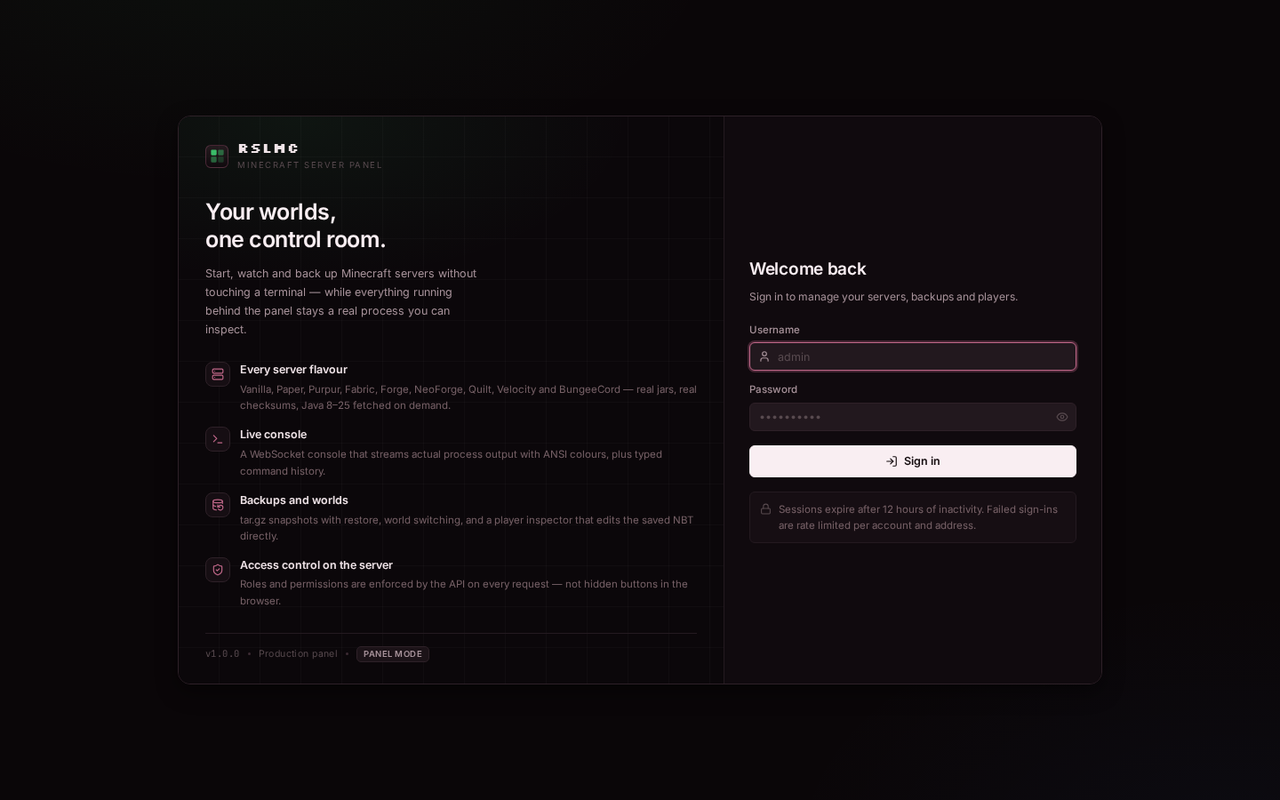
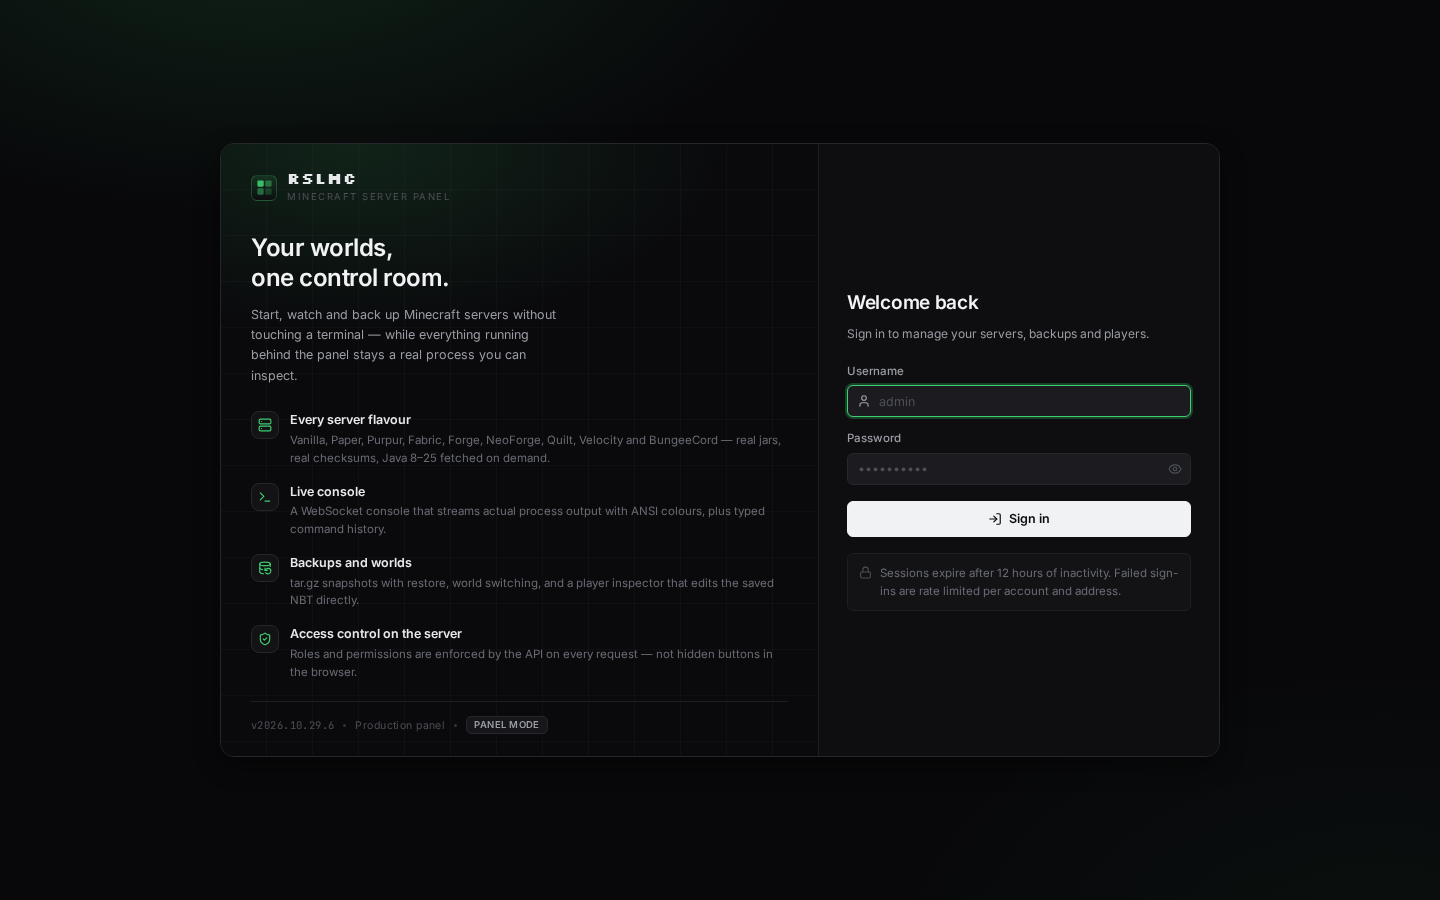
fix(auth): the sign-in frame now fits the screen it is opened on
On a 1366x768 laptop (683 px of viewport under browser chrome) the auth frame was a fixed 640 px
box with 32 px of padding above and below: it overflowed by 32 px at 1280x640 and 72 px at
1024x600, so the page scrolled and the form sat below the fold even though most of the frame's left
column was empty space.

- .auth-shell is border-box with dvh-aware padding (clamp 12-32 px), so the frame can use the whole
  viewport and never adds a phantom scrollbar on mobile.
- The frame is 1000 px wide with a narrower form column (348-400 px), and its internal spacing
  — hero padding, headline, intro, feature list, form gaps, footer rule — is expressed in clamp()
  against viewport height instead of fixed pixels.
- Feature descriptions clamp to two lines so the left column cannot grow past the right one.
- @media (max-height: 760px) drops the intro paragraph (the four capabilities carry the page) and
  tightens the list; @media (max-height: 560px) also trims the last feature and the card subtitle.

Measured in a real browser at 1366x683, 1280x640, 1024x600, 1920x950, 375x667 and 390x844: no
vertical scroll at any size, and the frame keeps its two-pane layout down to 921 px wide.
docs/screenshots/login.png regenerated at 1440x900.

diff --git a/frontend/styles.css b/frontend/styles.css
@@ -825,19 +825,23 @@ button, input, select, textarea { font-family: inherit; font-size: inherit; colo
    right. Same charcoal palette and motion language as the panel itself.
    ======================================================================== */
 .auth-shell {
+  /* dvh so a phone's collapsing toolbar does not add a phantom scrollbar; the padding is part of
+     the box, so the frame can use every pixel between the edges. */
   min-height: 100vh;
+  min-height: 100dvh;
   display: grid;
   place-items: center;
-  padding: 32px 24px;
+  box-sizing: border-box;
+  padding: clamp(12px, 2.8vh, 32px) clamp(12px, 2.2vw, 24px);
   background:
     radial-gradient(820px 420px at 18% -8%, var(--accent-soft), transparent 68%),
     radial-gradient(720px 420px at 96% 106%, color-mix(in srgb, var(--accent) 4%, transparent), transparent 70%),
     var(--bg);
 }
 .auth-frame {
-  width: min(1040px, 100%);
+  width: min(1000px, 100%);
   display: grid;
-  grid-template-columns: minmax(0, 1.06fr) minmax(392px, 424px);
+  grid-template-columns: minmax(0, 1fr) minmax(348px, 400px);
   background: var(--surface);
   border: 1px solid var(--border-2);
   border-radius: 14px;
@@ -851,7 +855,7 @@ button, input, select, textarea { font-family: inherit; font-size: inherit; colo
   position: relative;
   display: flex;
   flex-direction: column;
-  padding: 28px 30px 24px;
+  padding: clamp(16px, 3vh, 28px) clamp(18px, 2.4vw, 30px) clamp(14px, 2.4vh, 24px);
   border-right: 1px solid var(--border);
   background-color: var(--bg-sidebar);
   background-image:
@@ -883,23 +887,23 @@ button, input, select, textarea { font-family: inherit; font-size: inherit; colo
   color: var(--text-ghost);
   margin-top: 3px;
 }
-.auth-hero-body { margin-top: 30px; flex: 1; }
+.auth-hero-body { margin-top: clamp(14px, 3.2vh, 30px); flex: 1; }
 .auth-hero-body h2 {
   margin: 0;
-  font-size: 25px;
+  font-size: clamp(20px, 1.1vw + 9px, 24px);
   line-height: 1.24;
   font-weight: 600;
   letter-spacing: -0.02em;
   color: var(--text-strong);
 }
 .auth-hero-body > p {
-  margin: 12px 0 0;
-  font-size: 12.5px;
-  line-height: 1.68;
+  margin: clamp(7px, 1.4vh, 12px) 0 0;
+  font-size: clamp(11.5px, 0.9vh + 5px, 12.5px);
+  line-height: 1.62;
   color: var(--text-dim);
   max-width: 40ch;
 }
-.auth-hero-list { list-style: none; margin: 26px 0 0; padding: 0; display: grid; gap: 15px; }
+.auth-hero-list { list-style: none; margin: clamp(14px, 2.8vh, 26px) 0 0; padding: 0; display: grid; gap: clamp(10px, 2vh, 15px); }
 .auth-hero-list li {
   display: grid;
   grid-template-columns: 28px minmax(0, 1fr);
@@ -923,10 +927,14 @@ button, input, select, textarea { font-family: inherit; font-size: inherit; colo
 }
 .auth-hero-list b { display: block; font-size: 12.5px; font-weight: 600; color: var(--text); }
 .auth-hero-list span:not(.auth-hero-icon) {
-  display: block;
-  margin-top: 3px;
-  font-size: 11.5px;
-  line-height: 1.6;
+  display: -webkit-box;
+  -webkit-box-orient: vertical;
+  -webkit-line-clamp: 2;
+  line-clamp: 2;
+  overflow: hidden;
+  margin-top: 2px;
+  font-size: clamp(10.5px, 0.8vh + 4.5px, 11.5px);
+  line-height: 1.55;
   color: var(--text-faint);
 }
 .auth-hero-foot {
@@ -934,8 +942,8 @@ button, input, select, textarea { font-family: inherit; font-size: inherit; colo
   align-items: center;
   gap: 9px;
   flex-wrap: wrap;
-  margin-top: 26px;
-  padding-top: 14px;
+  margin-top: clamp(10px, 2.2vh, 26px);
+  padding-top: clamp(8px, 1.6vh, 14px);
   border-top: 1px solid var(--border);
   font-size: 10.5px;
   letter-spacing: 0.04em;
@@ -944,10 +952,10 @@ button, input, select, textarea { font-family: inherit; font-size: inherit; colo
 .auth-hero-dot { width: 3px; height: 3px; border-radius: 50%; background: var(--border-3); }
 
 /* ----- right: form ----- */
-.auth-main { padding: 30px 28px; display: grid; align-items: center; background: var(--surface); }
+.auth-main { padding: clamp(18px, 3.2vh, 30px) clamp(18px, 2.2vw, 28px); display: grid; align-items: center; background: var(--surface); }
 .auth-card {
   width: 100%;
-  max-width: 380px;
+  max-width: 360px;
   margin: 0 auto;
   background: transparent;
   border: 0;
@@ -964,7 +972,7 @@ button, input, select, textarea { font-family: inherit; font-size: inherit; colo
   color: var(--text-strong);
 }
 .auth-card-head p { margin: 7px 0 0; font-size: 12px; line-height: 1.6; color: var(--text-dim); }
-.auth-form { display: flex; flex-direction: column; gap: 13px; margin-top: 20px; }
+.auth-form { display: flex; flex-direction: column; gap: clamp(9px, 1.6vh, 13px); margin-top: clamp(12px, 2.4vh, 20px); }
 .auth-submit { height: 36px; margin-top: 3px; }
 .auth-error { margin: 0; }
 
@@ -1026,8 +1034,8 @@ button, input, select, textarea { font-family: inherit; font-size: inherit; colo
   justify-content: center;
   gap: 7px;
   flex-wrap: wrap;
-  margin-top: 20px;
-  padding-top: 16px;
+  margin-top: clamp(12px, 2.2vh, 20px);
+  padding-top: clamp(10px, 1.8vh, 16px);
   border-top: 1px solid var(--border);
   font-size: 11.5px;
   color: var(--text-faint);
@@ -1110,6 +1118,20 @@ button, input, select, textarea { font-family: inherit; font-size: inherit; colo
   border: 1px solid var(--border-2);
   border-radius: 12px;
   box-shadow: var(--shadow-md);
+}
+
+/* Short laptop screens (1366x768 with browser chrome, 1280x720, split-screen windows): the intro
+   paragraph and the footer line go first, so the frame keeps fitting without an inner scrollbar. */
+@media (max-height: 760px) and (min-width: 921px) {
+  /* Keep what carries the page — brand, headline, the four capabilities, the form — and drop the
+     intro paragraph rather than cutting a sentence in half with an ellipsis. */
+  .auth-hero-body > p { display: none; }
+  .auth-hero-list { gap: 9px; margin-top: 12px; }
+  .auth-hero-foot { margin-top: 12px; padding-top: 9px; }
+}
+@media (max-height: 560px) and (min-width: 921px) {
+  .auth-hero-list li:nth-child(n + 4) { display: none; }
+  .auth-card-head p { display: none; }
 }
 
 @media (max-width: 920px) {
